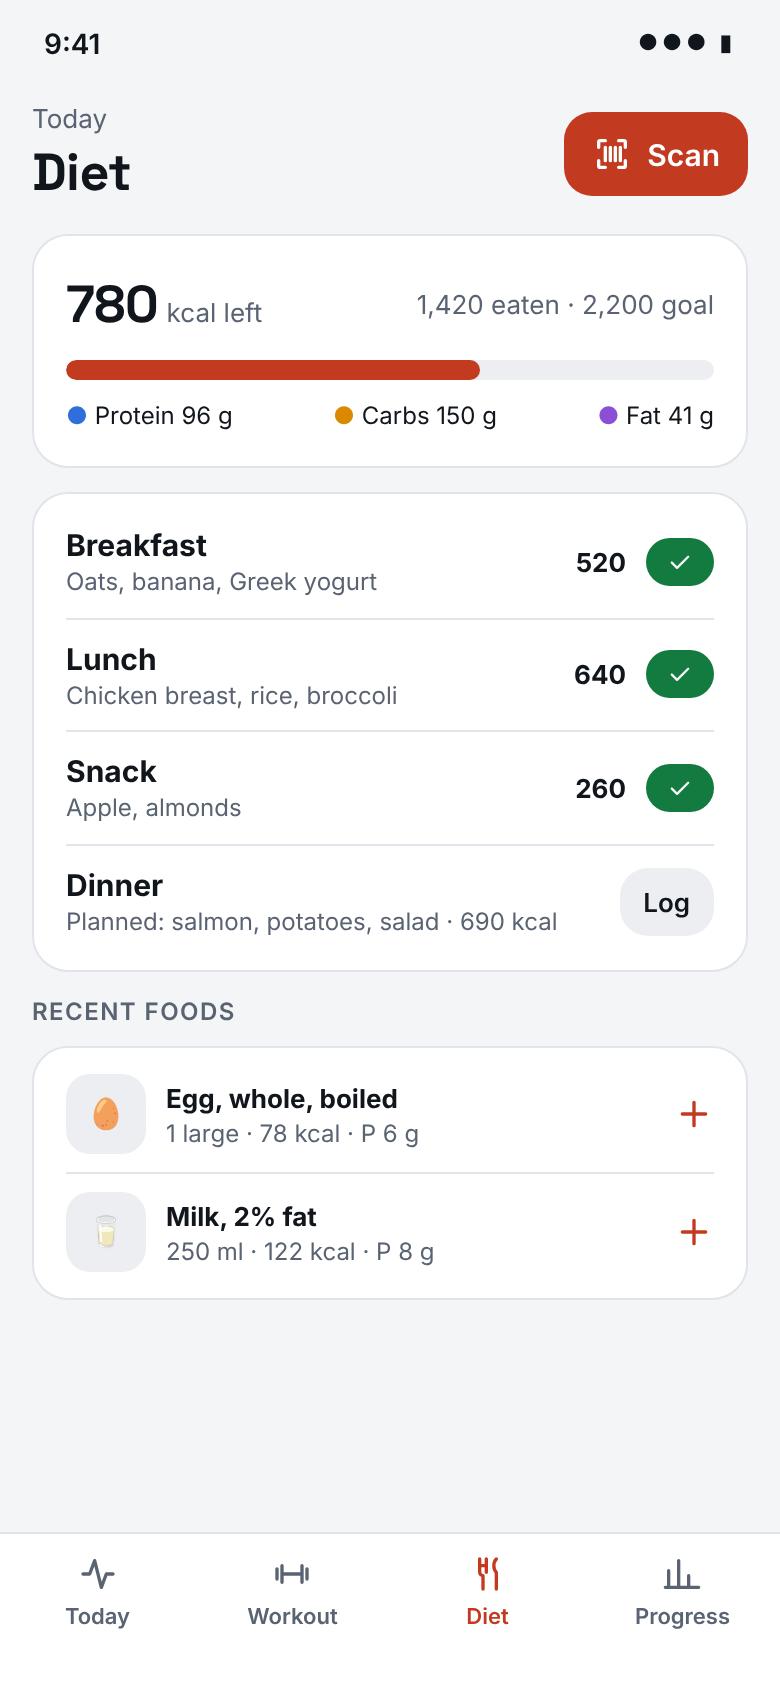
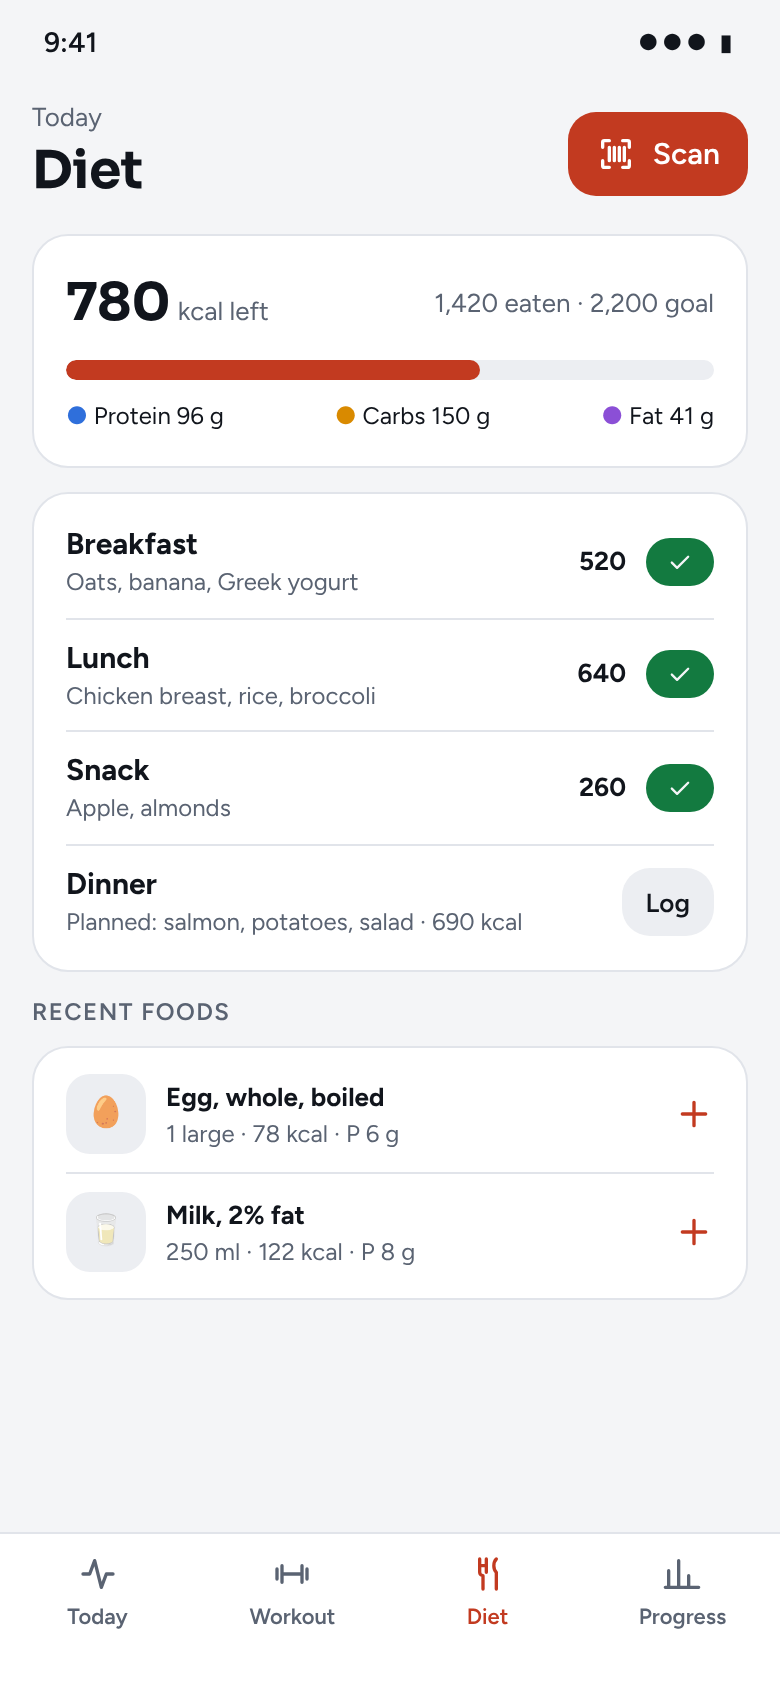
docs: replace dark theme with mint on navy and switch fonts to Sora and Figtree
Claude-Session: https://claude.ai/code/session_015QVoNWXfz3uqGa95ntMijc

diff --git a/docs/mockups/src/mockups.html b/docs/mockups/src/mockups.html
@@ -5,7 +5,7 @@
 <meta name="viewport" content="width=device-width, initial-scale=1">
 <title>Pulsefit mockups</title>
 <link rel="preconnect" href="https://fonts.googleapis.com">
-<link href="https://fonts.googleapis.com/css2?family=Space+Grotesk:wght@500;600;700&family=Inter:wght@400;500;600;700&display=swap" rel="stylesheet">
+<link href="https://fonts.googleapis.com/css2?family=Sora:wght@500;600;700&family=Figtree:wght@400;500;600;700&display=swap" rel="stylesheet">
 <style>
 /* Semantic tokens. Mockup only: the app will define the same names in Tailwind v4 @theme. */
 :root, [data-theme="light"] {
@@ -16,10 +16,10 @@
   --glow: none; --glow-strong: none; --radius: 18px;
 }
 [data-theme="dark"] {
-  --bg: #0e1116; --surface: #171b22; --surface-2: #20252e; --border: #2a303b;
-  --text: #e9edf3; --muted: #9aa3b2; --on-accent: #16090a;
-  --accent: #ff6b52; --accent-soft: #3a1d19;
-  --protein: #6ea2ff; --carbs: #f0b440; --fat: #b98af2; --ok: #4ccf86;
+  --bg: #0f1522; --surface: #172033; --surface-2: #1f2a40; --border: #2a3753;
+  --text: #e8eef8; --muted: #9aa8c0; --on-accent: #06231a;
+  --accent: #3ee0a1; --accent-soft: #12352c;
+  --protein: #7fb2ff; --carbs: #f5c35b; --fat: #c59cff; --ok: #3ee0a1;
   --glow: none; --glow-strong: none;
 }
 [data-theme="neon"] {
@@ -34,8 +34,8 @@
 
 * { box-sizing: border-box; margin: 0; padding: 0; }
 html, body { background: var(--bg); }
-body { font: 15px/1.4 Inter, system-ui, sans-serif; color: var(--text); width: 390px; height: 844px; overflow: hidden; }
-h1, h2, h3, .num { font-family: "Space Grotesk", Inter, sans-serif; letter-spacing: -.01em; }
+body { font: 15px/1.4 Figtree, system-ui, sans-serif; color: var(--text); width: 390px; height: 844px; overflow: hidden; }
+h1, h2, h3, .num { font-family: Sora, Figtree, sans-serif; letter-spacing: -.01em; }
 .screen { display: none; height: 844px; flex-direction: column; }
 .screen.on { display: flex; }
 
@@ -51,7 +51,7 @@ h1, h2, h3, .num { font-family: "Space Grotesk", Inter, sans-serif; letter-spaci
 .chip { display: inline-flex; align-items: center; gap: 6px; padding: 5px 10px; border-radius: 999px; font-size: 12px; font-weight: 600; background: var(--surface-2); color: var(--text); }
 .chip.accent { background: var(--accent-soft); color: var(--accent); }
 .dot { width: 8px; height: 8px; border-radius: 50%; background: var(--carbs); }
-.btn { display: inline-flex; align-items: center; justify-content: center; gap: 8px; height: 48px; padding: 0 20px; border-radius: 14px; border: 0; font: 600 15px Inter, sans-serif; background: var(--accent); color: var(--on-accent); box-shadow: var(--glow); }
+.btn { display: inline-flex; align-items: center; justify-content: center; gap: 8px; height: 48px; padding: 0 20px; border-radius: 14px; border: 0; font: 600 15px Figtree, sans-serif; background: var(--accent); color: var(--on-accent); box-shadow: var(--glow); }
 .btn.ghost { background: var(--surface-2); color: var(--text); box-shadow: none; }
 .btn.block { width: 100%; }
 .icon { width: 20px; height: 20px; stroke: currentColor; fill: none; stroke-width: 2; stroke-linecap: round; stroke-linejoin: round; }
